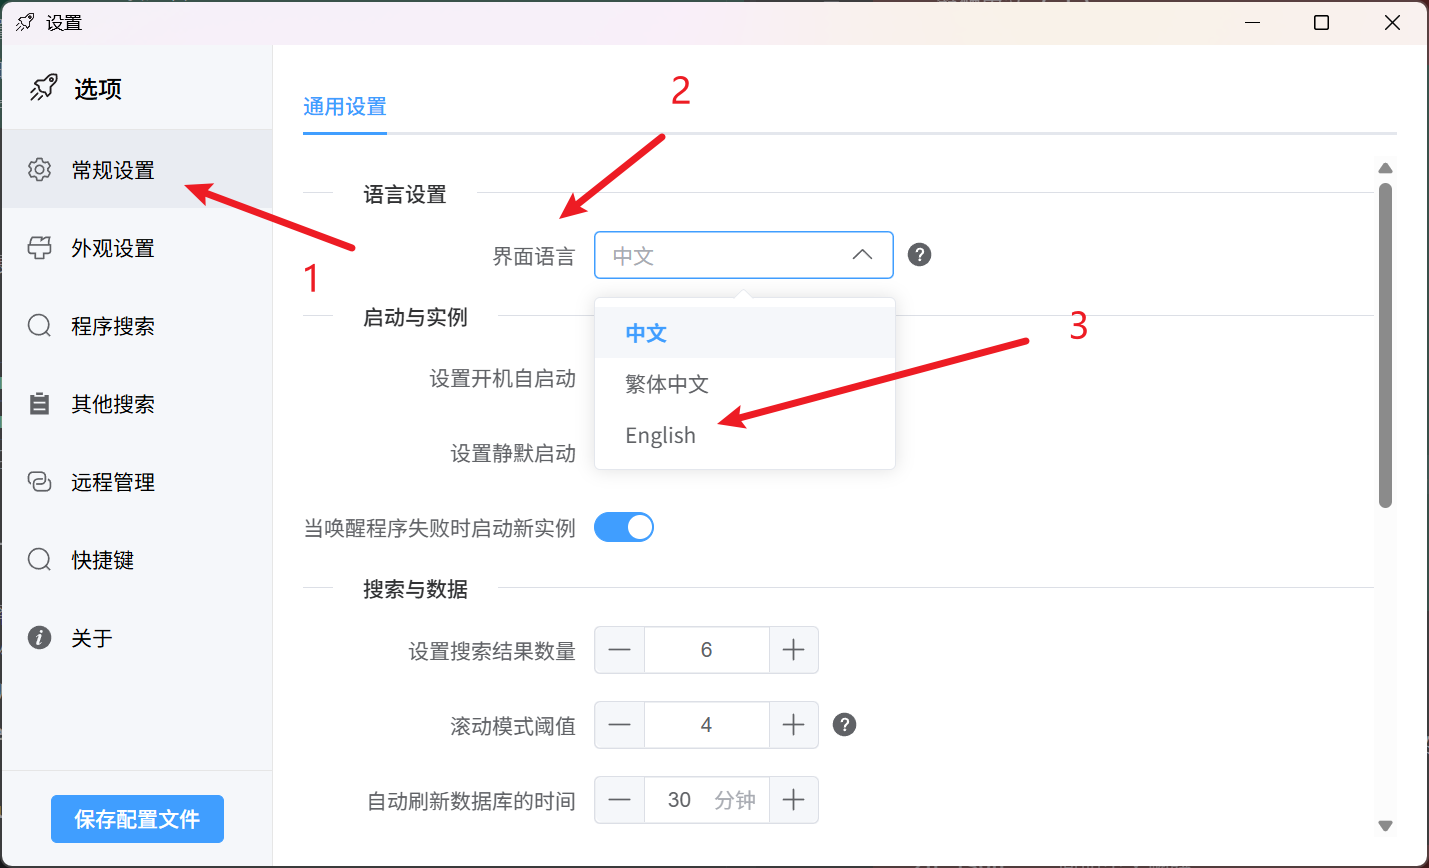
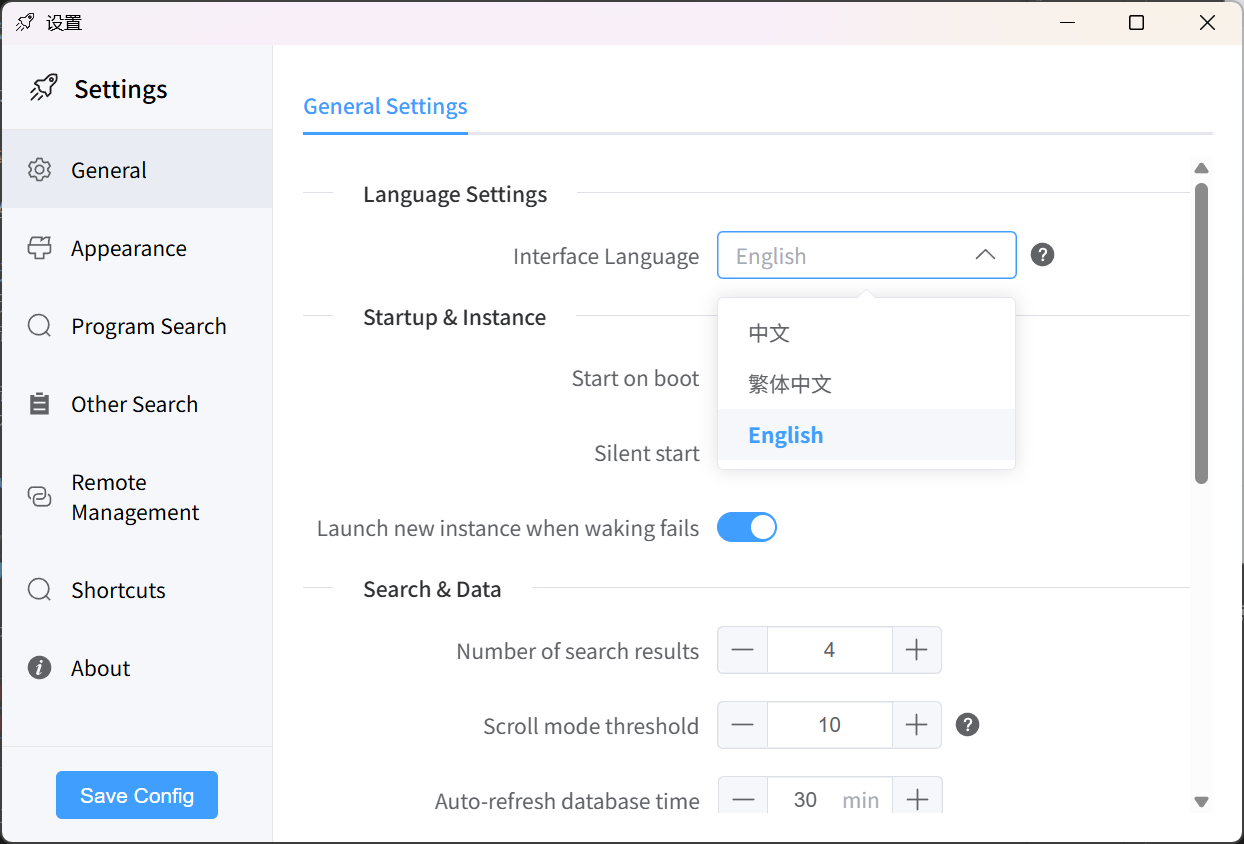
[功能]: 程序在第一次运行时会尝试读取当前电脑上使用的语言，实现自动选择系统语言。将英文做为默认语言。

diff --git a/src-tauri/src/utils/locale.rs b/src-tauri/src/utils/locale.rs
@@ -1,0 +1,68 @@
+/// 系统区域设置和语言检测工具
+use tracing::{debug, warn, info};
+use windows::Win32::Globalization::GetUserDefaultLocaleName;
+
+/// 使用 Windows API GetUserDefaultLocaleName 来获取用户的默认区域设置
+pub fn get_system_locale() -> Option<String> {
+    unsafe {
+        const LOCALE_NAME_MAX_LENGTH: usize = 85;
+        let mut locale_name: [u16; LOCALE_NAME_MAX_LENGTH] = [0; LOCALE_NAME_MAX_LENGTH];
+
+        let result = GetUserDefaultLocaleName(&mut locale_name);
+
+        if result > 0 {
+            // 找到第一个 null 终止符
+            let len = locale_name.iter().position(|&c| c == 0).unwrap_or(result as usize);
+            let locale_string = String::from_utf16_lossy(&locale_name[..len]);
+            debug!("检测到系统语言: {}", locale_string);
+            Some(locale_string)
+        } else {
+            warn!("无法获取系统语言设置");
+            None
+        }
+    }
+}
+
+pub fn map_locale_to_language(locale: &str) -> String {
+    // 转换为小写以便于匹配
+    let locale_lower = locale.to_lowercase();
+
+    if locale_lower.starts_with("zh-") {
+        let traditional_locales = [
+            "zh-tw",
+            "zh-hk",
+            "zh-mo",
+            "zh-hant",
+        ];
+
+        for traditional in &traditional_locales {
+            if locale_lower.starts_with(traditional) {
+                return "zh-Hant".to_string();
+            }
+        }
+
+        // 默认其他中文 locale 为简体中文
+        return "zh-Hans".to_string();
+    }
+
+    // 英语处理
+    if locale_lower.starts_with("en-") || locale_lower == "en" {
+        debug!("系统语言 {} 映射为英语", locale);
+        return "en".to_string();
+    }
+
+    "en".to_string()
+}
+
+/// 获取适合应用的默认语言
+///
+/// 尝试检测系统语言并映射到应用支持的语言,如果检测失败则返回英语
+pub fn get_default_app_language() -> String {
+    match get_system_locale() {
+        Some(locale) => map_locale_to_language(&locale),
+        None => {
+            info!("无法检测系统语言，使用英语作为默认");
+            "en".to_string()
+        }
+    }
+}

diff --git a/src-tauri/src/modules/config/app_config.rs b/src-tauri/src/modules/config/app_config.rs
@@ -3,6 +3,7 @@ use serde::{Deserialize, Serialize};
 use tracing::Level;
 
 use super::default::APP_VERSION;
+use crate::utils::locale::get_default_app_language;
 
 /// 日志级别枚举
 #[derive(Serialize, Deserialize, Debug, Clone, PartialEq, Default)]
@@ -211,7 +212,7 @@ impl AppConfigInner {
     }
 
     pub(crate) fn default_language() -> String {
-        "zh-Hans".to_string()
+        get_default_app_language()
     }
 
     pub(crate) fn default_log_level() -> LogLevel {

diff --git a/src-tauri/src/utils/mod.rs b/src-tauri/src/utils/mod.rs
@@ -1,6 +1,7 @@
 pub mod access_policy;
 pub mod defer;
 pub mod font_database;
+pub mod locale;
 pub mod notify;
 pub mod service_locator;
 pub mod ui_controller;

diff --git a/readme-en.md b/readme-en.md
@@ -66,7 +66,7 @@ Laser‑focused on “quickly and accurately launching what you need.” Zero co
 *   **Application Search**: Quickly retrieve and launch **applications** and **UWP apps**, providing a smooth program access experience. Supports program remarks and aliases, localized name recognition and search.
 *   **Application Wake-up**: Intelligently identifies and brings already open windows to the foreground, enabling convenient multi-task switching.
 *   **Customizable Interface**: Highly customizable appearance, supporting custom background images, option colors, search font color and size, display font color and size, number of candidates displayed, frosted glass effect, rounded corner size settings, program width and height, and many other items, with convenient interaction buttons for each.
-*   **Multi-language support**: Supports Simplified Chinese, Traditional Chinese, and English.
+*   **Multi-language support**: Supports Simplified Chinese, Traditional Chinese, and English. On startup, the application will attempt to detect your system language and automatically select the matching UI language. If detection fails, English will be used as the fallback default.
 *   **Open File Location**: In the right-click menu, you can open the folder where the target file is located.
 
 ---
@@ -235,10 +235,10 @@ You can change the application's display language through the following methods:
 
 1. **Through Settings Interface**:
    - Open ZeroLaunch-rs settings window (as shown in the image above)
-   - Click on the 「常规设置」 option in the left navigation bar
-   - Find the 「界面语言」 dropdown menu in the 「语言设置」 section
+   - Click on the 「General」 option in the left navigation bar
+   - Find the 「Interface language」 dropdown menu in the 「Language Settings」 section
    - Click the dropdown menu and select your preferred language from the available options (supports Chinese, Traditional Chinese, English)
-   - Save the settings and restart the application to apply the new language settings
+   - Save the settings「Save Config」to apply the new language settings
 
 > 💡 **Helpful Tip**: The language switching feature is designed to be simple and clear. No matter which language you choose, the entire interface will completely switch to the corresponding language, providing a native user experience for users of different language backgrounds.
 
